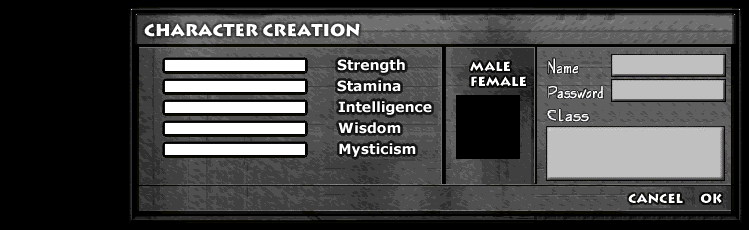
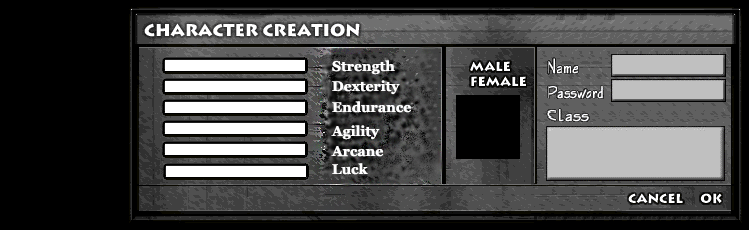
better character creation

Changed region(s): [[0.215, 0.1826, 0.6142, 0.8217]]

diff --git a/newPlayer.js b/newPlayer.js
@@ -36,8 +36,10 @@ var newPlayerState = {
         maleButton.inputEnabled = true;
         femaleButton.inputEnabled = true;
 
-        maleButton.events.onInputDown.add(function(){ changeGender(false) });
-        femaleButton.events.onInputDown.add(function(){ changeGender(true) });
+        maleButton.events.onInputDown.add(function(){ changeGender(false); });
+        femaleButton.events.onInputDown.add(function(){ changeGender(true); });
+
+        var strengthMinusButton = game.add.sprite(game.world.centerX * 0.435, game.world.centerY * 0.799, 'minusButton');
 
         chosenGender = 'm';
 
